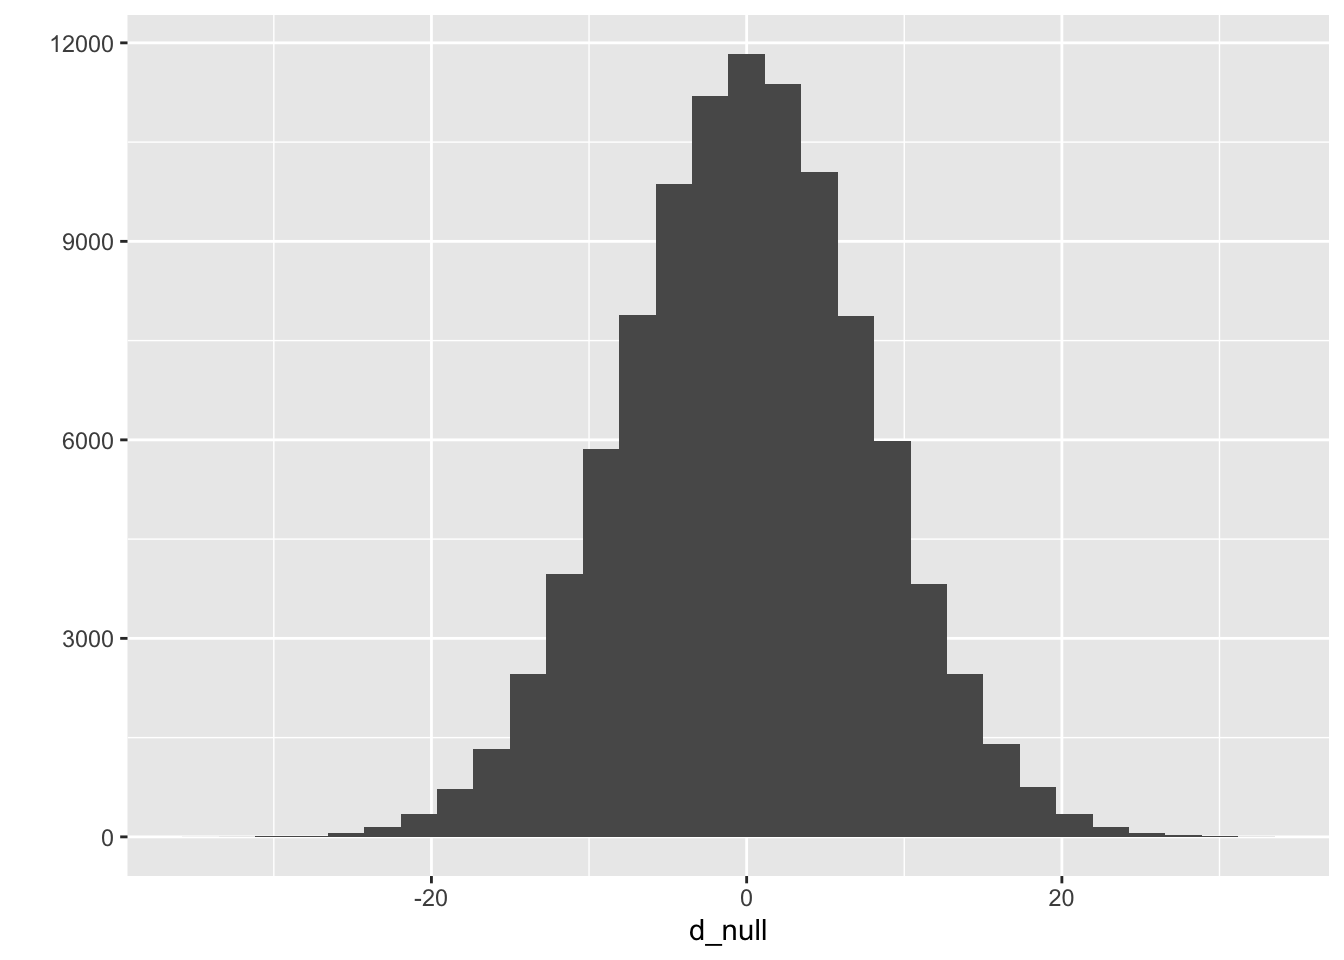
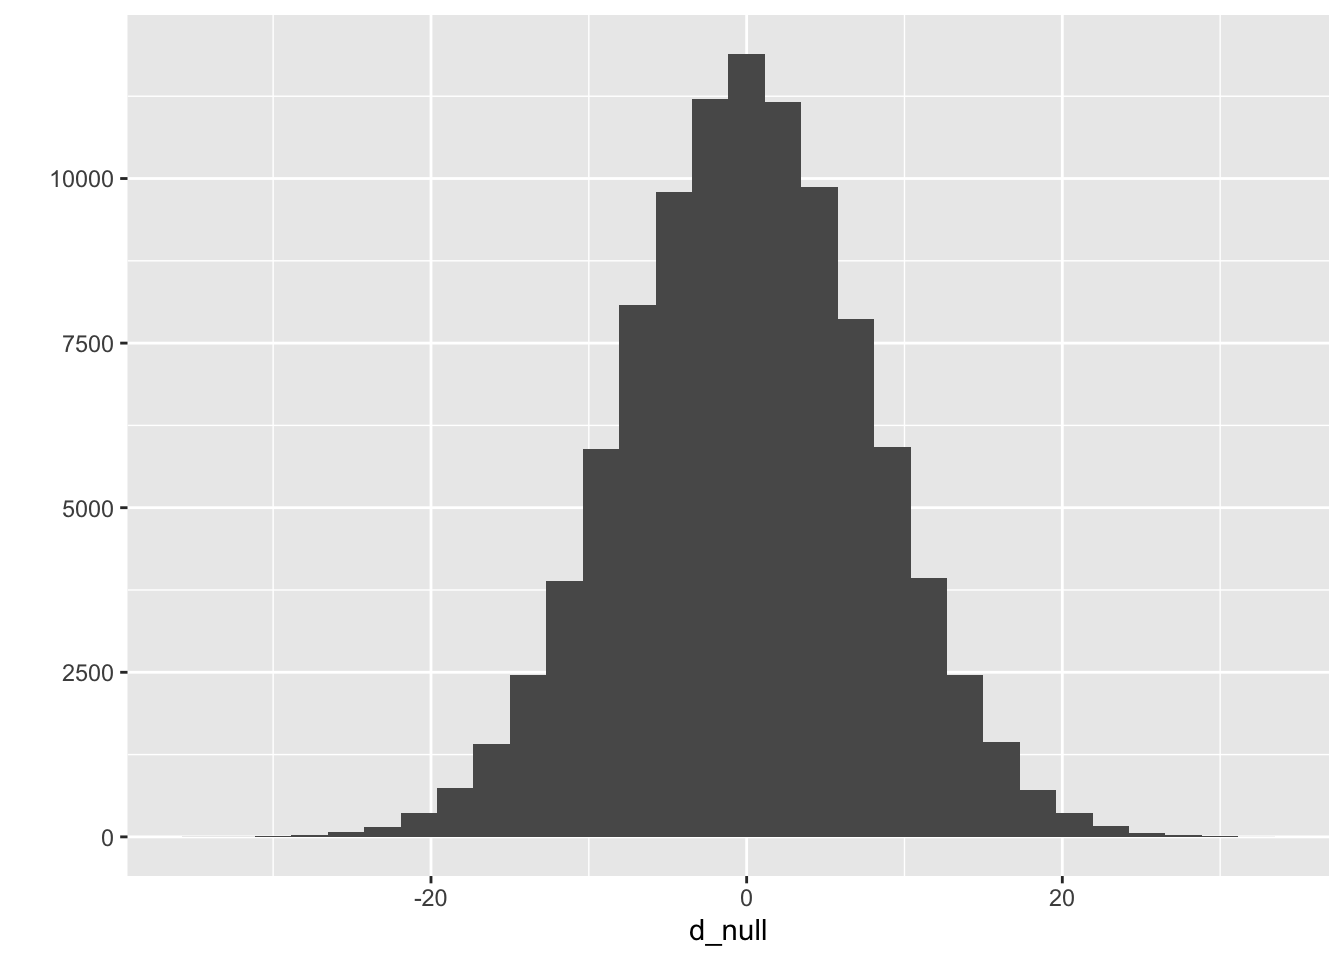
pvalues

diff --git a/docs/chapters/p-values.html b/docs/chapters/p-values.html
@@ -310,7 +310,7 @@ window.Quarto = {
 
 <p><em>A general perception of a “replication crisis” may thus reflect failure to recognize that statistical tests not only test hypotheses, but countless assumptions and the entire environment in which research takes place. Because of all the uncertain and unknown assumptions that underpin statistical inferences, we should treat inferential statistics as highly unstable local descriptions of relations between assumptions and data, rather than as providing generalizable inferences about hypotheses or models. And that means we should treat statistical results as being much more incomplete and uncertain than is currently the norm.</em><a href="#fn1" class="footnote-ref" id="fnref1" role="doc-noteref"><sup>1</sup></a></p>
 <p>A <em>p</em>-value <em>is a measure of the compatibility between observed data and the null model</em>. Here, “compatibility” is a probability, specifically, the probability of sampling a test-statistic as or more extreme than the observed test statistic, if all the assumptions used to compute the <em>p</em>-value are true.</p>
-<p>To deconstruct what this means, and the implications of the meaning, let’s use the fig2i data from Figure 2i in the study on the browning of white adipose tissue in mice that was introduced in the introductory chapter # <a href="#ask1-intro">Analyzing experimental data with a linear model</a>.</p>
+<p>To deconstruct what this means, and the implications of the meaning, let’s use the fig2i data from Figure 2i in the study on the browning of white adipose tissue in mice that was introduced in the introductory chapter <a href="@sec-intro">Analyzing experimental data with a linear model</a>.</p>
 <p>Data source: <a href="https://www.nature.com/articles/s41467-020-15483-7" target="_blank">ASK1 inhibits browning of white adipose tissue in obesity</a></p>
 <div class="cell">
 <div class="sourceCode cell-code" id="cb1"><pre class="sourceCode r code-with-copy"><code class="sourceCode r"><span id="cb1-1"><a href="#cb1-1" aria-hidden="true" tabindex="-1"></a>fig_2i_m1 <span class="ot">&lt;-</span> <span class="fu">lm</span>(liver_tg <span class="sc">~</span> treatment, <span class="at">data =</span> fig_2i)</span></code><button title="Copy to Clipboard" class="code-copy-button"><i class="bi"></i></button></pre></div>
@@ -420,17 +420,17 @@ p = \mathrm{prob}(t \ge t_o | H_o)
 <li>repeat 1-3 100,000 times, each time saving the difference in means.</li>
 <li>plot the distribution of the 100,000 differences using a histogram</li>
 </ol>
-<p>The distribution of the differences is a null distribution. Notice that the mode of the null distribution is at zero, and the mean (0.02092) is close to zero (if we had set <span class="math inline">\(n\)</span> to infinity, the mean would be precisely zero). <em>The expected difference between the means of two random samples from the same population is, of course, zero</em>. Don’t gloss over this statement if that is not obvious. The tails extend out to a little more than +20 and -20. What this means is that it would be uncommon to randomly sample a value from this distribution of differences <em>as or more extreme</em> than our observed difference, -21.6. By “more extreme”, I mean any value more negative than -21.6 or more postive than 21.6. So it would be uncommon to sample a value from this distribution whose <em>absolute value</em> is as or more extreme than 21.6. How uncommon would this be?</p>
+<p>The distribution of the differences is a null distribution. Notice that the mode of the null distribution is at zero, and the mean (-0.00594) is close to zero (if we had set <span class="math inline">\(n\)</span> to infinity, the mean would be precisely zero). <em>The expected difference between the means of two random samples from the same population is, of course, zero</em>. Don’t gloss over this statement if that is not obvious. The tails extend out to a little more than +20 and -20. What this means is that it would be uncommon to randomly sample a value from this distribution of differences <em>as or more extreme</em> than our observed difference, -21.6. By “more extreme”, I mean any value more negative than -21.6 or more postive than 21.6. So it would be uncommon to sample a value from this distribution whose <em>absolute value</em> is as or more extreme than 21.6. How uncommon would this be?</p>
 <div class="cell">
 <div class="sourceCode cell-code" id="cb3"><pre class="sourceCode r code-with-copy"><code class="sourceCode r"><span id="cb3-1"><a href="#cb3-1" aria-hidden="true" tabindex="-1"></a>diff_obs <span class="ot">&lt;-</span> fig_2i_m1_coef[<span class="st">"treatmentASK1Δadipo"</span>, <span class="st">"Estimate"</span>]</span>
 <span id="cb3-2"><a href="#cb3-2" aria-hidden="true" tabindex="-1"></a>null_diff_extreme <span class="ot">&lt;-</span> <span class="fu">which</span>(<span class="fu">abs</span>(d_null) <span class="sc">&gt;</span> <span class="fu">abs</span>(diff_obs))</span>
 <span id="cb3-3"><a href="#cb3-3" aria-hidden="true" tabindex="-1"></a>n_extreme <span class="ot">&lt;-</span> <span class="fu">length</span>(null_diff_extreme)</span>
 <span id="cb3-4"><a href="#cb3-4" aria-hidden="true" tabindex="-1"></a>(<span class="at">p_d_null =</span> n_extreme<span class="sc">/</span>n_rep)</span></code><button title="Copy to Clipboard" class="code-copy-button"><i class="bi"></i></button></pre></div>
 <div class="cell-output cell-output-stdout">
-<pre><code>[1] 0.00541</code></pre>
+<pre><code>[1] 0.00588</code></pre>
 </div>
 </div>
-<p>In the 100,000 runs, only 541 generated data with an absolute difference as large or larger than 21.6 (an “absolute difference” is the absoute value of the difference). The frequency of differences as large or larger than our observed difference is 0.00541. This frequency is the <em>probability</em> of sampling a difference as or more extreme than the observed difference “under the null”. It is a <em>p</em>-value, but it is not the <em>p</em>-value in the coefficient table. This is because the <em>p</em>-value in the coefficient table is computed from a distribution of <em>t</em>-values, not raw differences. This raises the question, what is a <em>t</em>-distribution, and a <em>t</em>-value, more generally?</p>
+<p>In the 100,000 runs, only 588 generated data with an absolute difference as large or larger than 21.6 (an “absolute difference” is the absoute value of the difference). The frequency of differences as large or larger than our observed difference is 0.00588. This frequency is the <em>probability</em> of sampling a difference as or more extreme than the observed difference “under the null”. It is a <em>p</em>-value, but it is not the <em>p</em>-value in the coefficient table. This is because the <em>p</em>-value in the coefficient table is computed from a distribution of <em>t</em>-values, not raw differences. This raises the question, what is a <em>t</em>-distribution, and a <em>t</em>-value, more generally?</p>
 </section>
 <section id="a-null-distribution-of-t-values-the-t-distribution" class="level2" data-number="6.3">
 <h2 data-number="6.3" class="anchored" data-anchor-id="a-null-distribution-of-t-values-the-t-distribution"><span class="header-section-number">6.3</span> A null distribution of <em>t</em>-values – the <em>t</em> distribution</h2>

diff --git a/docs/chapters/intro-stat-modeling.html b/docs/chapters/intro-stat-modeling.html
@@ -410,7 +410,7 @@ b_1 = \mathrm{E}(Y|X=x+1) - \mathrm{E}(Y|X=x+1)
 <section id="slope" class="level3" data-number="8.2.2">
 <h3 data-number="8.2.2" class="anchored" data-anchor-id="slope"><span class="header-section-number">8.2.2</span> Fitting linear models to experimental data in which the <span class="math inline">\(X\)</span> variable is categorical</h3>
 <p>Linear models can be fit to experimental data in which the <span class="math inline">\(X\)</span> variable is categorical – this is the focus of this text! For the model fit to the data in Figure (<span class="quarto-unresolved-ref">?fig-line</span>)B, the coefficient of <span class="math inline">\(X\)</span> is the slope of the line. Perhaps surprisingly, 1) we can fit a model like equation (<a href="#eq-error-spec" class="quarto-xref">Equation&nbsp;<span>8.2</span></a>) to data in which the <span class="math inline">\(X\)</span> variable is categorical and 2) the coefficient of <span class="math inline">\(X\)</span> <em>is</em> a slope. How is this possible? The slope of a line is <span class="math inline">\(\frac{y_2 - y_1}{x_2 - x_1}\)</span> where <span class="math inline">\((x_1, y_1)\)</span> and <span class="math inline">\((x_2, y_2)\)</span> are the graph coordinates of any two points on the line. What is the denominator of the slope function <span class="math inline">\((x_2 - x_1)\)</span> when <span class="math inline">\(X\)</span> is categorical?</p>
-<p>The solution to using a linear model with categorical <span class="math inline">\(X\)</span> is to recode the factor levels into numbers. An example of this was outlined in Chapter <span class="quarto-unresolved-ref">?sec-intro</span>. The value of <span class="math inline">\(X\)</span> for individual mouse <em>i</em> is a number that indicates the treatment assignment – a value of 0 is given to mice with a functional ASK1 gene and a value of 1 is given to mice with a knocked out gene. The regression line goes through the two group means (Figure (<span class="quarto-unresolved-ref">?fig-intro-linear-models-cat-slope</span>)). With the (0, 1) coding, <span class="math inline">\(\overline{x}_{ASK1Δadipo} - \overline{x}_{ASK1F/F} = 1\)</span>, so the denominator of the slope is equal to one and the slope is simply equal to the numerator <span class="math inline">\(\overline{y}_{ASK1Δadipo} - \overline{y}_{ASK1F/F}\)</span>. The coefficient (which is a slope!) <em>is</em> the difference in conditional means.</p>
+<p>The solution to using a linear model with categorical <span class="math inline">\(X\)</span> is to recode the factor levels into numbers. An example of this was outlined in Chapter <a href="../intro.html" class="quarto-xref"><span>Chapter 1</span></a>. The value of <span class="math inline">\(X\)</span> for individual mouse <em>i</em> is a number that indicates the treatment assignment – a value of 0 is given to mice with a functional ASK1 gene and a value of 1 is given to mice with a knocked out gene. The regression line goes through the two group means (Figure (<span class="quarto-unresolved-ref">?fig-intro-linear-models-cat-slope</span>)). With the (0, 1) coding, <span class="math inline">\(\overline{x}_{ASK1Δadipo} - \overline{x}_{ASK1F/F} = 1\)</span>, so the denominator of the slope is equal to one and the slope is simply equal to the numerator <span class="math inline">\(\overline{y}_{ASK1Δadipo} - \overline{y}_{ASK1F/F}\)</span>. The coefficient (which is a slope!) <em>is</em> the difference in conditional means.</p>
 <div class="cell">
 <div class="cell-output-display">
 <div class="quarto-figure quarto-figure-center">

diff --git a/docs/intro.html b/docs/intro.html
@@ -256,7 +256,7 @@ window.Quarto = {
 
 <header id="title-block-header" class="quarto-title-block default">
 <div class="quarto-title">
-<h1 class="title"><span class="chapter-number">1</span>&nbsp; <span class="chapter-title">Analyzing experimental data with a linear model</span></h1>
+<h1 class="title"><span id="sec-intro" class="quarto-section-identifier"><span class="chapter-number">1</span>&nbsp; <span class="chapter-title">Analyzing experimental data with a linear model</span></span></h1>
 </div>
 
 
